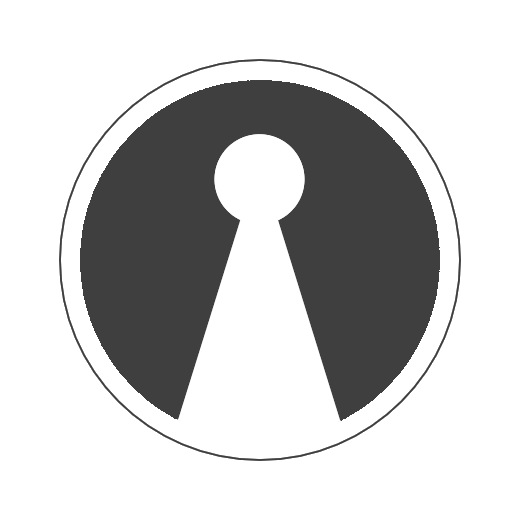
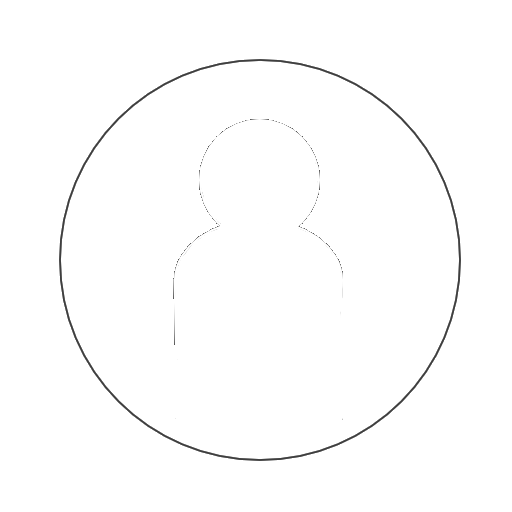
Added user data request and dashboard post request APIs

Changed region(s): [[0.1562, 0.1562, 0.875, 0.8438]]

diff --git a/src/pages/User.vue b/src/pages/User.vue
@@ -1,16 +1,20 @@
-<script>
-    import auth from '../api/firebase'
-    import {onAuthStateChanged} from 'firebase/auth'
+<script setup>
+    import funcs from '../api/firebase'
+    import {getDocs, collections, collection} from 'firebase/firestore'
+    import { httpsCallable } from 'firebase/functions';
+    
 
-    onAuthStateChanged(auth, (user) => {
-        if(user){
-            user.uid
-        }else{
-            
-        }
-    })
+    const props = defineProps({thisUserId:Int});
+
+    const dbUserRequest = httpsCallable(funcs,'getDbUser');
+    dbUserRequest({ uid: '0'})
+        .then((result)=>{const output = result.data.text})
+        .catch((error)=>{console.log(error)})
+
 </script>
 
-<template @onload="">
+<template>
+    <h1>{{output}}</h1>
+
 
 </template>

diff --git a/src/api/firebase.js b/src/api/firebase.js
@@ -1,9 +1,9 @@
 // Import the functions you need from the SDKs you need
 import { initializeApp } from "firebase/app";
 import { getFirestore } from 'firebase/firestore';
-import { getAuth } from 'firebase/auth'
-import { getFunctions } from 'firebase/functions'
-import { getStorage } from 'firebase/storage'
+import { getAuth } from 'firebase/auth';
+import { getFunctions } from 'firebase/functions';
+import { getStorage } from 'firebase/storage';
 // TODO: Add SDKs for Firebase products that you want to use
 // https://firebase.google.com/docs/web/setup#available-libraries
 
@@ -25,5 +25,4 @@ const db = getFirestore(app);
 const auth = getAuth(app);
 const storage = getStorage(app);
 const funcs = getFunctions(app);
-
 export default {app,db,auth,storage,funcs};

diff --git a/src/api/dbPostRequestApi.js b/src/api/dbPostRequestApi.js
@@ -1,0 +1,20 @@
+import {limit,getDocs,orderBy} from 'firebase/firestore';
+const {onRequest} = require('firebase/functions/v2/https')
+const { initializeApp } = require('firebase-admin/app');
+const { getFirestore } = require('firebase-admin/firestore');
+const db = getFirestore();
+initializeApp();
+
+exports.getDbRecipes = onRequest(async(req,res)=>{
+    num = req.query.quantity
+    const q = query(db.collection('Recipe'),orderBy('likes'),limit(num))
+    const snapshot = await getDocs(q);
+    
+    if(snapshot.empty){
+        res.send('Error:no posts found')
+
+    }else{
+        res.json(snapshot.data())
+
+    }
+})

diff --git a/src/api/dbUserRequestApi.js b/src/api/dbUserRequestApi.js
@@ -1,0 +1,19 @@
+
+const {onRequest} = require('firebase/functions/v2/https')
+const { initializeApp } = require('firebase-admin/app');
+const { getFirestore } = require('firebase-admin/firestore');
+const db = getFirestore();
+initializeApp();
+
+exports.getDbUser = onRequest(async(req,res)=>{
+
+    const snapshot = await db.collection('User').where('uId','==',req.query.uid).limit(1).get();
+
+    if(snapshot.empty){
+        res.send('Error:no user with this UID')
+
+    }else{
+        res.json(snapshot.data())
+
+    }
+})

diff --git a/src/components/Header.vue b/src/components/Header.vue
@@ -11,12 +11,11 @@
                 <input type="text" class="form-control" placeholder="Search" id="searchBar">
             </div>
             
-            <div class="col"><a href="/"><img src="../assets/images/User icon.png" height="50vh" style="float: inline-end;"></a></div>
+            <div class="col"><a href="/user"><img src="../assets/images/User icon.png" height="50vh" style="float: inline-end;"></a></div>
             
         </div>
     </div>
 </template>
-
 
 
 <style scoped>

diff --git a/src/router/routes.js b/src/router/routes.js
@@ -7,5 +7,6 @@ function loadPage(component) {
 export default [
     { path: '/', component: loadPage('Home') },
     { path: '/search', component: loadPage('Search') },
-    { path: '/recipe', component: loadPage('Recipe') }
+    { path: '/recipe', component: loadPage('Recipe') },
+    { path: '/user', component: loadPage('User')}
 ]

diff --git a/index.html b/index.html
@@ -8,7 +8,7 @@
   </head>
   <body>
     <div id="app"></div>
-    <script type="module" src="/src/main.js"></script>
-    <script type="module" src="/src/api/firebase.js"></script>
+    <script type="module" src="../src/main.js"></script>
+    <script type="module" src="../src/api/firebase.js"></script>
   </body>
 </html>

diff --git a/src/pages/Home.vue b/src/pages/Home.vue
@@ -1,5 +1,6 @@
 <script>
-import {app,funcs} from '../api/firebase';
+import app from '../api/firebase.js';
+import funcs from '../api/firebase.js';
 import { httpsCallable } from 'firebase/functions';
 
 </script>

diff --git a/src/main.js b/src/main.js
@@ -10,6 +10,7 @@ import routes from "./router/routes"
 //bootstrap
 import "bootstrap/dist/css/bootstrap.min.css"
 
+
 //router object
 let mainRouter = createRouter({
     history:createWebHistory(),
